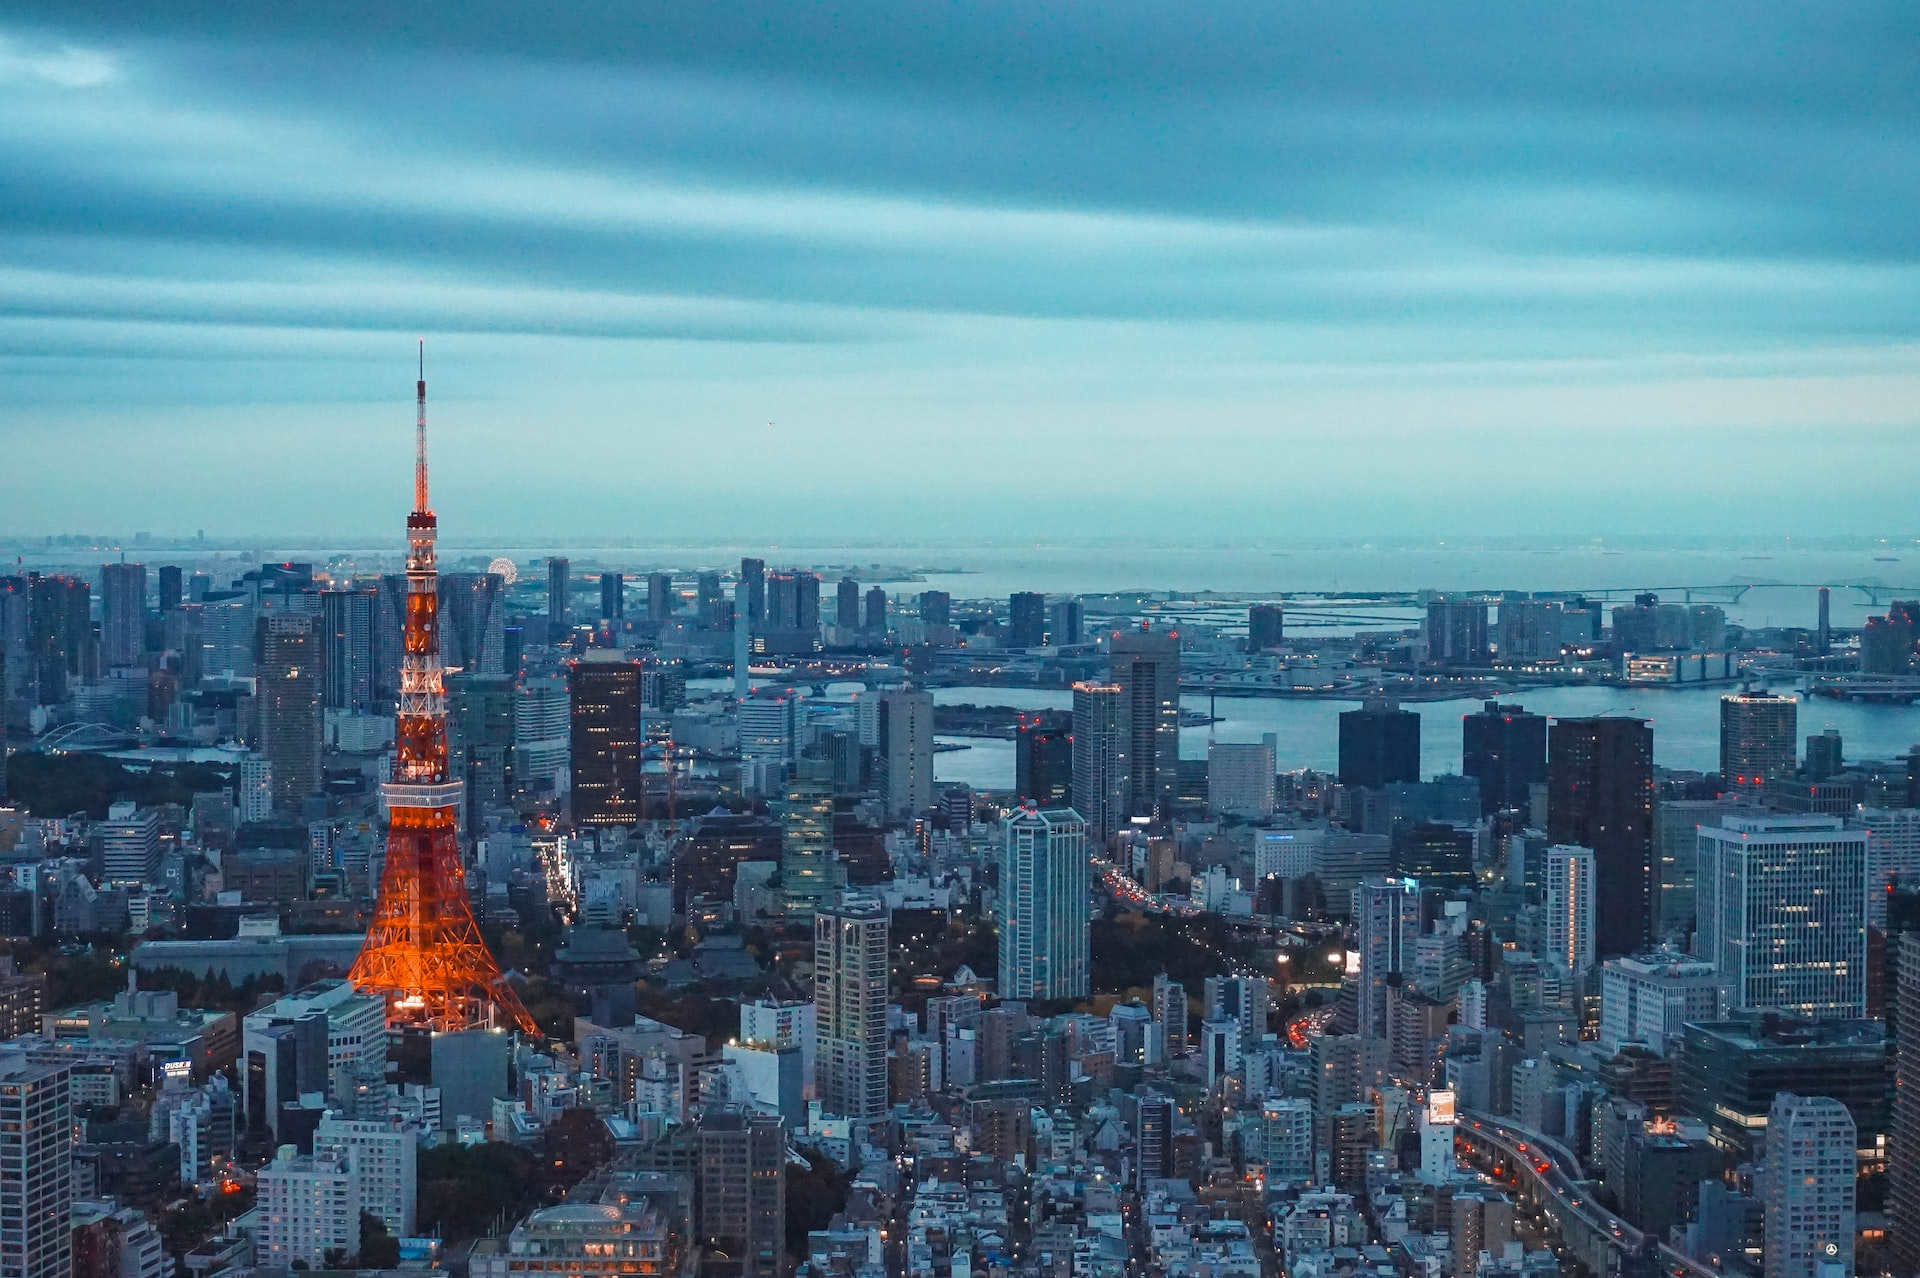
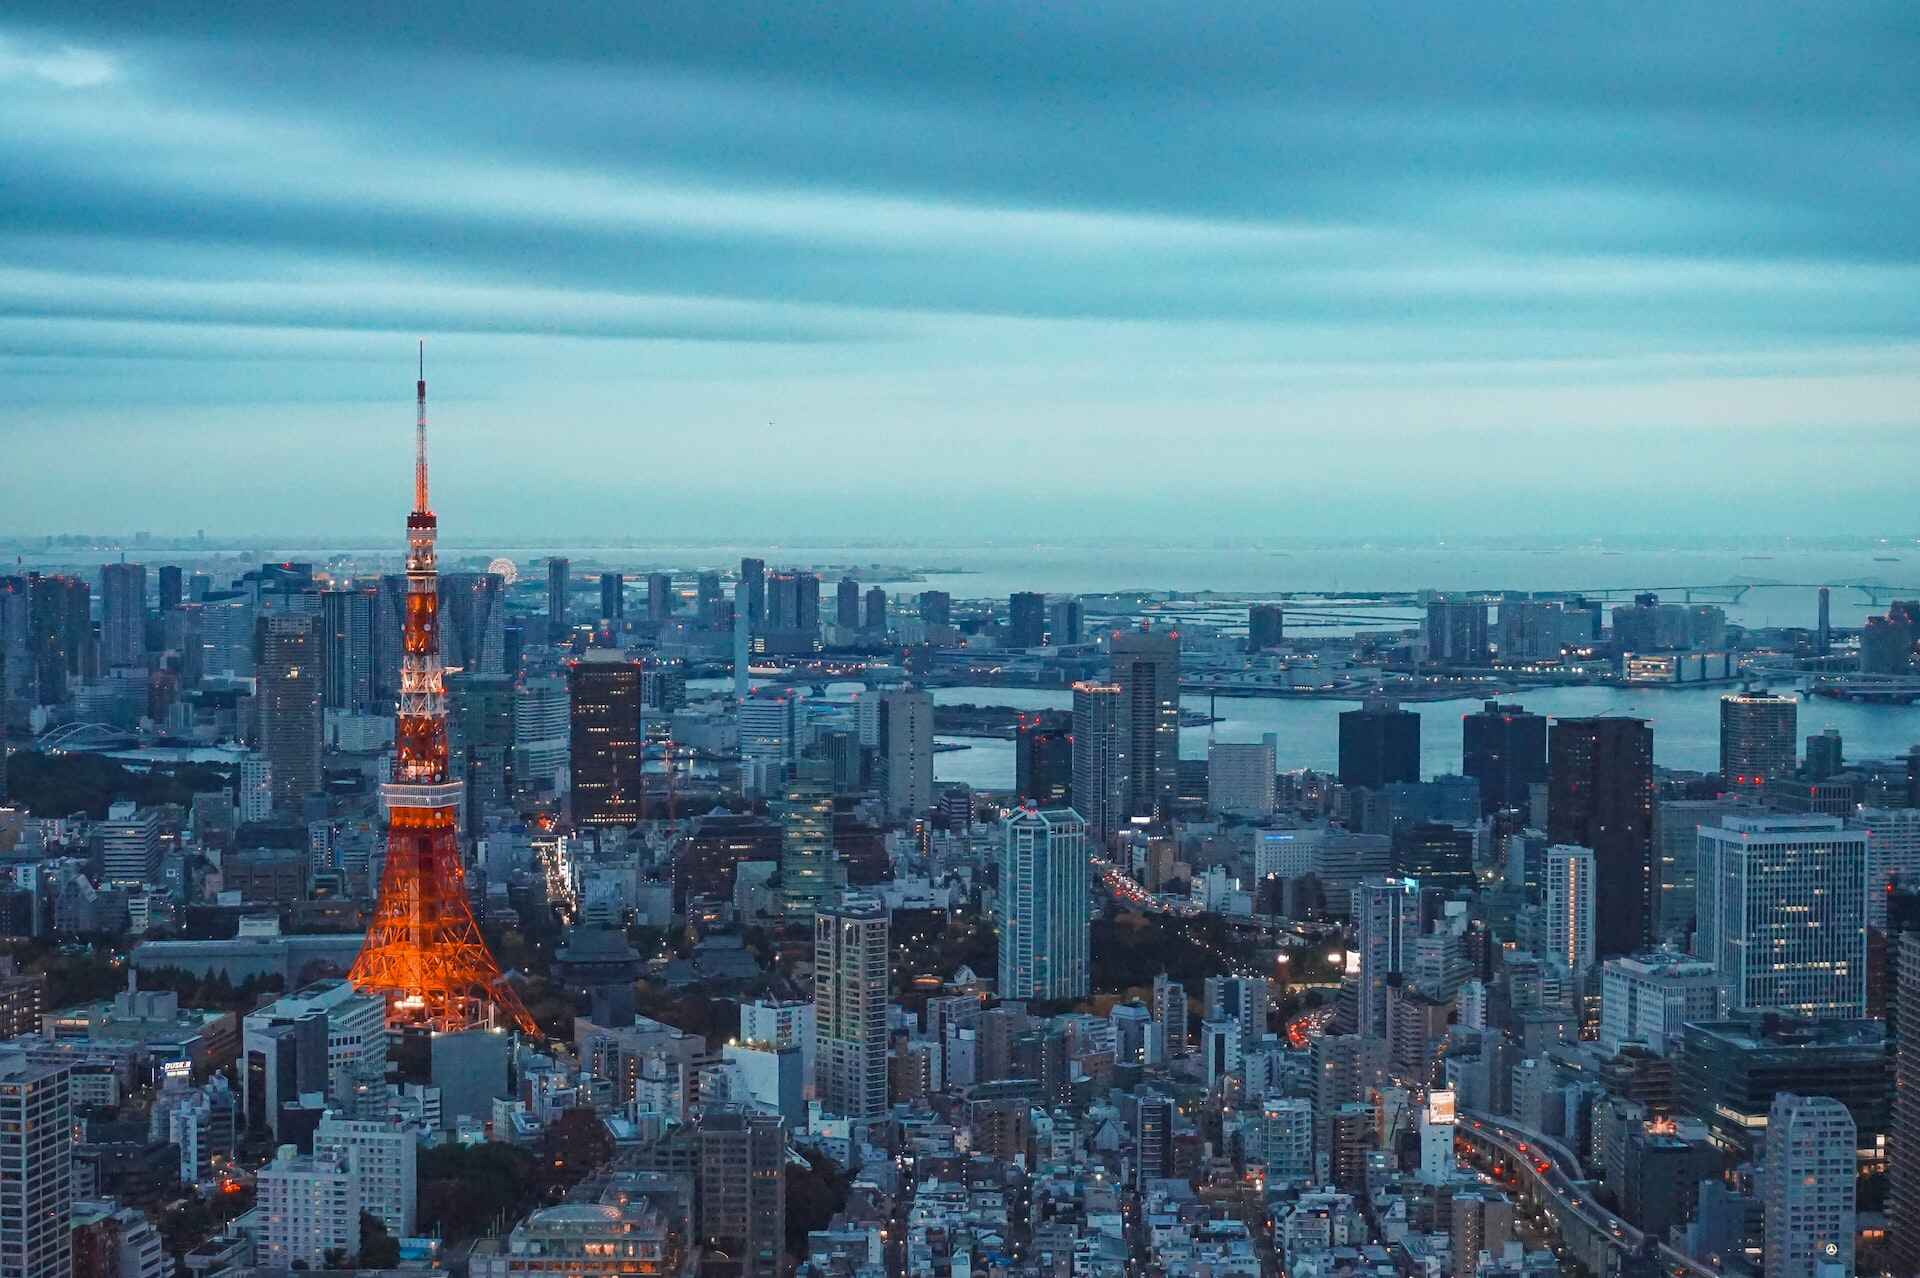
optymalizacja

Changed region(s): [[0.2188, 0.7324, 0.25, 0.7629]]

diff --git a/styles.css b/styles.css
@@ -342,10 +342,10 @@ main{
     background-image: url(./assets/css.jpg);
 }
 .galeria .img33{
-    background-image: url(./assets/lodz.webp);
+    background-image: url(./assets/lodz.jpg);
 }
 .galeria .img44{
-    background-image: url(./assets/zdj2.webp);
+    background-image: url(./assets/zdj2.jpg);
 }
 
 footer{
